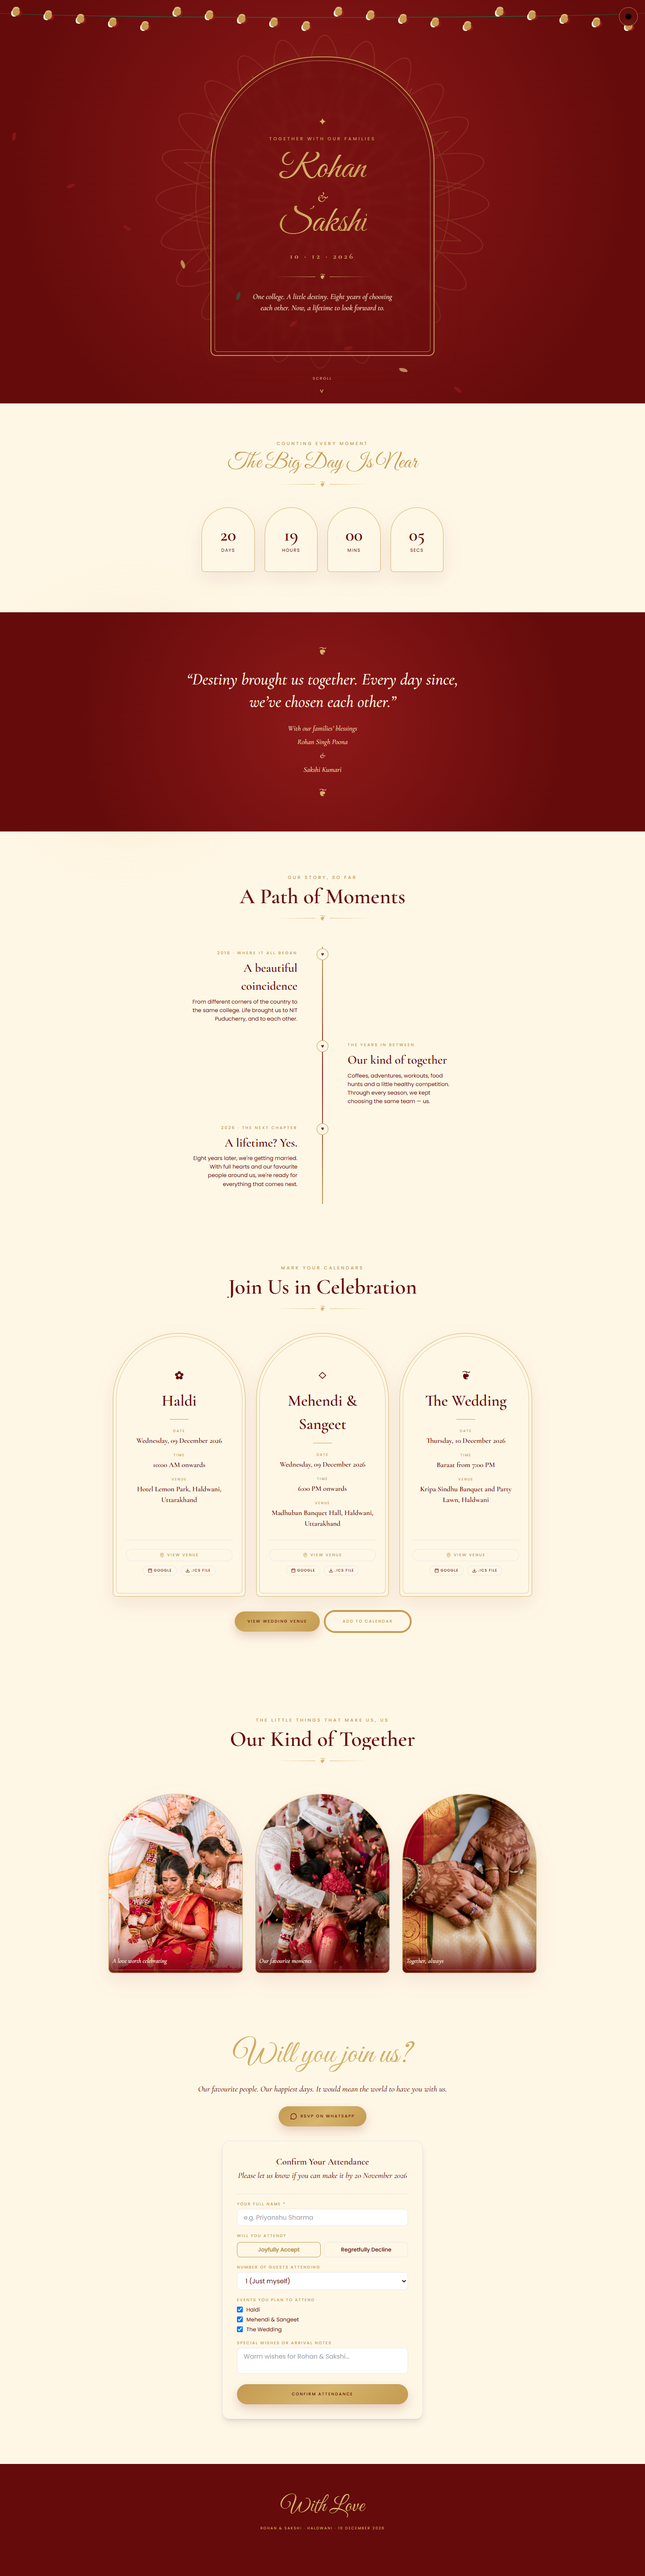
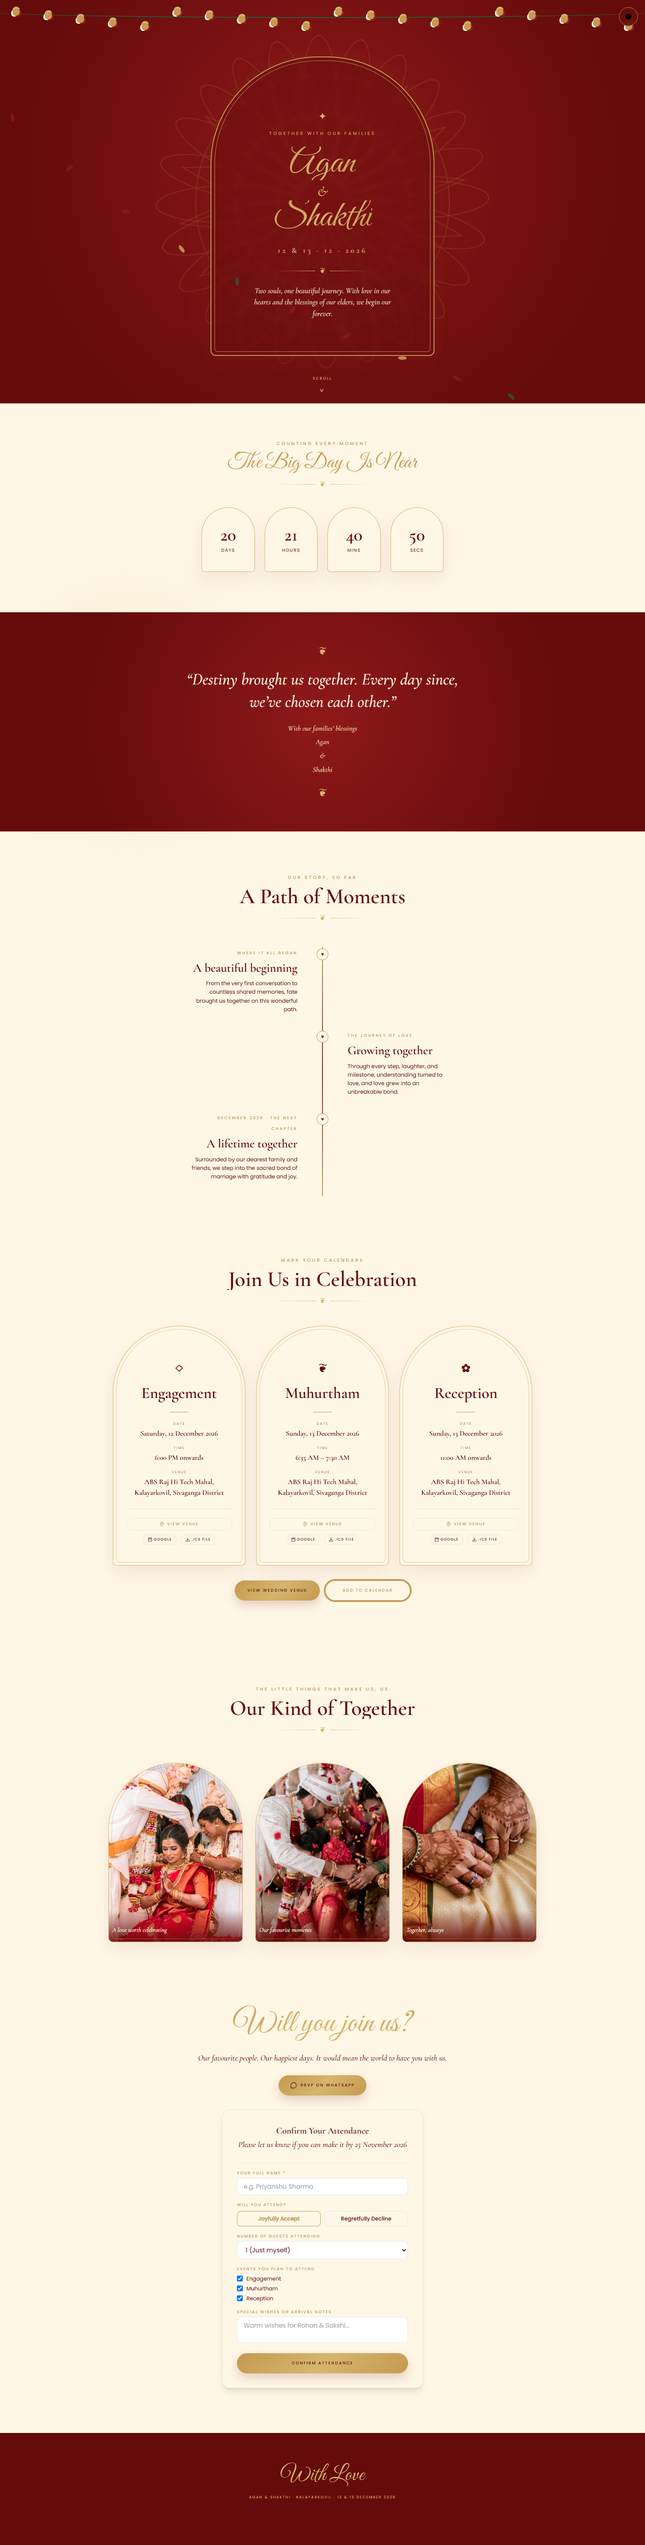
feat: update wedding details for Agan & Shakthi at ABS Raj Hi Tech Mahal, Kalayarkovil

diff --git a/src/content/invitation.ts b/src/content/invitation.ts
@@ -51,7 +51,7 @@ export interface InvitationContent {
     scrollHintText: string;
   };
   countdown: {
-    targetDateISO: string; // 2026-12-10T19:00:00+05:30
+    targetDateISO: string; // 2026-12-13T06:35:00+05:30
     eyebrow: string;
     title: string;
     labels: {
@@ -90,7 +90,7 @@ export interface InvitationContent {
   rsvp: {
     title: string;
     copy: string;
-    whatsAppNumber: string; // e.g. 919679545488
+    whatsAppNumber: string;
     whatsAppMessageTemplate: string;
     whatsAppButtonText: string;
     formTitle: string;
@@ -104,13 +104,13 @@ export interface InvitationContent {
 
 export const invitationContent: InvitationContent = {
   meta: {
-    title: "Rohan & Sakshi · 10 December 2026",
-    description: "Celebrate Rohan and Sakshi's wedding on 10 December 2026 in Haldwani, Uttarakhand.",
+    title: "Agan & Shakthi · 12 & 13 December 2026",
+    description: "Celebrate Agan and Shakthi's wedding on 12 & 13 December 2026 at ABS Raj Hi Tech Mahal, Kalayarkovil, Sivaganga district.",
     favicon: "/assets/favicon.png",
     ogImage: "/assets/invitation-cover.jpg",
   },
   audio: {
-    // Leave empty by default; set to e.g. '/assets/shehnai-classical.mp3' to enable floating player
+    // Leave empty by default; set to e.g. '/assets/nadaswaram-wedding.mp3' to enable floating player
     src: "",
     title: "Auspicious Wedding Melody",
   },
@@ -118,19 +118,19 @@ export const invitationContent: InvitationContent = {
     image: "/assets/invitation-cover.jpg",
     openButtonText: "OPEN INVITATION",
     skipButtonText: "Skip to Invitation",
-    ariaLabel: "Open Rohan and Sakshi's invitation",
+    ariaLabel: "Open Agan and Shakthi's invitation",
   },
   hero: {
     ornament: "✦",
     eyebrow: "Together with our families",
-    groomFirstName: "Rohan",
-    brideFirstName: "Sakshi",
-    displayDate: "10 · 12 · 2026",
-    copy: "One college. A little destiny. Eight years of choosing each other. Now, a lifetime to look forward to.",
+    groomFirstName: "Agan",
+    brideFirstName: "Shakthi",
+    displayDate: "12 & 13 · 12 · 2026",
+    copy: "Two souls, one beautiful journey. With love in our hearts and the blessings of our elders, we begin our forever.",
     scrollHintText: "SCROLL",
   },
   countdown: {
-    targetDateISO: "2026-12-10T19:00:00+05:30",
+    targetDateISO: "2026-12-13T06:35:00+05:30", // Muhurtham: 13 Dec 2026, 6:35 AM IST
     eyebrow: "Counting every moment",
     title: "The Big Day Is Near",
     labels: {
@@ -144,29 +144,29 @@ export const invitationContent: InvitationContent = {
   blessing: {
     quote: "“Destiny brought us together. Every day since, we’ve chosen each other.”",
     header: "With our families’ blessings",
-    groomFullName: "Rohan Singh Poona",
-    groomParents: "Smt Rekha Poona and Shri Bahadur Singh Poona",
-    brideFullName: "Sakshi Kumari",
-    brideParents: "Smt Sushama Kumari and Shri Shiv Raja",
+    groomFullName: "Agan",
+    groomParents: "Son of our beloved parents", // Pending parent names
+    brideFullName: "Shakthi",
+    brideParents: "Daughter of our beloved parents", // Pending parent names
   },
   story: {
     eyebrow: "Our story, so far",
     title: "A Path of Moments",
     milestones: [
       {
-        date: "2018 · WHERE IT ALL BEGAN",
-        title: "A beautiful coincidence",
-        note: "From different corners of the country to the same college. Life brought us to NIT Puducherry, and to each other.",
+        date: "WHERE IT ALL BEGAN",
+        title: "A beautiful beginning",
+        note: "From the very first conversation to countless shared memories, fate brought us together on this wonderful path.",
       },
       {
-        date: "THE YEARS IN BETWEEN",
-        title: "Our kind of together",
-        note: "Coffees, adventures, workouts, food hunts and a little healthy competition. Through every season, we kept choosing the same team — us.",
+        date: "THE JOURNEY OF LOVE",
+        title: "Growing together",
+        note: "Through every step, laughter, and milestone, understanding turned to love, and love grew into an unbreakable bond.",
       },
       {
-        date: "2026 · THE NEXT CHAPTER",
-        title: "A lifetime? Yes.",
-        note: "Eight years later, we're getting married. With full hearts and our favourite people around us, we're ready for everything that comes next.",
+        date: "DECEMBER 2026 · THE NEXT CHAPTER",
+        title: "A lifetime together",
+        note: "Surrounded by our dearest family and friends, we step into the sacred bond of marriage with gratitude and joy.",
       },
     ],
   },
@@ -177,37 +177,37 @@ export const invitationContent: InvitationContent = {
     addToCalendarButtonText: "Add to calendar",
     ceremonies: [
       {
-        id: "haldi",
-        symbol: "✿",
-        title: "Haldi",
-        date: "Wednesday, 09 December 2026",
-        time: "10:00 AM onwards",
-        venue: "Hotel Lemon Park, Haldwani, Uttarakhand",
-        mapQuery: "Hotel+Lemon+Park+Haldwani",
-        calendarStartDate: "2026-12-09T10:00:00+05:30",
-        calendarEndDate: "2026-12-09T14:00:00+05:30",
-      },
-      {
-        id: "mehendi",
+        id: "engagement",
         symbol: "◇",
-        title: "Mehendi & Sangeet",
-        date: "Wednesday, 09 December 2026",
+        title: "Engagement",
+        date: "Saturday, 12 December 2026",
         time: "6:00 PM onwards",
-        venue: "Madhuban Banquet Hall, Haldwani, Uttarakhand",
-        mapQuery: "Madhuban+Banquet+Hall+Haldwani",
-        calendarStartDate: "2026-12-09T18:00:00+05:30",
-        calendarEndDate: "2026-12-09T23:00:00+05:30",
+        venue: "ABS Raj Hi Tech Mahal, Kalayarkovil, Sivaganga District",
+        mapQuery: "ABS+Raj+Hi+Tech+Mahal+Kalayarkovil",
+        calendarStartDate: "2026-12-12T18:00:00+05:30",
+        calendarEndDate: "2026-12-12T21:00:00+05:30",
       },
       {
-        id: "wedding",
+        id: "muhurtham",
         symbol: "❦",
-        title: "The Wedding",
-        date: "Thursday, 10 December 2026",
-        time: "Baraat from 7:00 PM",
-        venue: "Kripa Sindhu Banquet and Party Lawn, Haldwani",
-        mapQuery: "Kripa+Sindhu+Banquet+And+Party+Lawn+Haldwani",
-        calendarStartDate: "2026-12-10T19:00:00+05:30",
-        calendarEndDate: "2026-12-11T00:00:00+05:30",
+        title: "Muhurtham",
+        date: "Sunday, 13 December 2026",
+        time: "6:35 AM – 7:30 AM",
+        venue: "ABS Raj Hi Tech Mahal, Kalayarkovil, Sivaganga District",
+        mapQuery: "ABS+Raj+Hi+Tech+Mahal+Kalayarkovil",
+        calendarStartDate: "2026-12-13T06:35:00+05:30",
+        calendarEndDate: "2026-12-13T08:00:00+05:30",
+      },
+      {
+        id: "reception",
+        symbol: "✿",
+        title: "Reception",
+        date: "Sunday, 13 December 2026",
+        time: "11:00 AM onwards",
+        venue: "ABS Raj Hi Tech Mahal, Kalayarkovil, Sivaganga District",
+        mapQuery: "ABS+Raj+Hi+Tech+Mahal+Kalayarkovil",
+        calendarStartDate: "2026-12-13T11:00:00+05:30",
+        calendarEndDate: "2026-12-13T15:00:00+05:30",
       },
     ],
   },
@@ -218,7 +218,7 @@ export const invitationContent: InvitationContent = {
       {
         image: "/assets/wedding-couple.jpg",
         label: "A love worth celebrating",
-        alt: "A bride and groom during a traditional Indian wedding ceremony",
+        alt: "A bride and groom during a traditional wedding ceremony",
       },
       {
         image: "/assets/flower-ceremony.jpg",
@@ -235,14 +235,14 @@ export const invitationContent: InvitationContent = {
   rsvp: {
     title: "Will you join us?",
     copy: "Our favourite people. Our happiest days. It would mean the world to have you with us.",
-    whatsAppNumber: "919679545488",
-    whatsAppMessageTemplate: "Hi Rohan! I'd like to RSVP for your wedding.\nName: \nNumber of guests: \nEvents I can attend: \nArrival plans: ",
+    whatsAppNumber: "919679545488", // Update with Agan / Shakthi's WhatsApp number when ready
+    whatsAppMessageTemplate: "Hi Agan & Shakthi! I'd like to RSVP for your wedding.\nName: \nNumber of guests: \nEvents I can attend: \nArrival plans: ",
     whatsAppButtonText: "RSVP on WhatsApp",
     formTitle: "Confirm Your Attendance",
-    formSubtitle: "Please let us know if you can make it by 20 November 2026",
+    formSubtitle: "Please let us know if you can make it by 25 November 2026",
   },
   footer: {
     signOff: "With Love",
-    metaLine: "ROHAN & SAKSHI · HALDWANI · 10 DECEMBER 2026",
+    metaLine: "AGAN & SHAKTHI · KALAYARKOVIL · 12 & 13 DECEMBER 2026",
   },
 };

diff --git a/src/components/sections/RsvpSection.tsx b/src/components/sections/RsvpSection.tsx
@@ -5,12 +5,13 @@ import { Reveal } from '../primitives/Reveal';
 import { CheckCircle2, MessageCircle } from 'lucide-react';
 
 export const RsvpSection: React.FC = () => {
-  const { rsvp } = invitationContent;
+  const { rsvp, events, hero } = invitationContent;
+  const ceremonyTitles = events.ceremonies.map((c) => c.title);
 
   const [name, setName] = useState('');
   const [attending, setAttending] = useState<'yes' | 'no'>('yes');
   const [guests, setGuests] = useState('1');
-  const [selectedEvents, setSelectedEvents] = useState<string[]>(['Haldi', 'Mehendi & Sangeet', 'The Wedding']);
+  const [selectedEvents, setSelectedEvents] = useState<string[]>(ceremonyTitles);
   const [notes, setNotes] = useState('');
   const [submitted, setSubmitted] = useState(false);
   const [errors, setErrors] = useState<{ name?: string }>({});
@@ -39,7 +40,7 @@ export const RsvpSection: React.FC = () => {
   };
 
   const getCustomWhatsAppUrl = () => {
-    const text = `Hi Rohan! I'd like to RSVP for your wedding.\nName: ${name || '[Your Name]'}\nAttending: ${attending === 'yes' ? 'Joyfully Accept' : 'Regretfully Decline'}\nNumber of guests: ${guests}\nEvents I can attend: ${selectedEvents.join(', ')}\nNotes: ${notes || 'None'}`;
+    const text = `Hi ${hero.groomFirstName} & ${hero.brideFirstName}! I'd like to RSVP for your wedding.\nName: ${name || '[Your Name]'}\nAttending: ${attending === 'yes' ? 'Joyfully Accept' : 'Regretfully Decline'}\nNumber of guests: ${guests}\nEvents I can attend: ${selectedEvents.join(', ')}\nNotes: ${notes || 'None'}`;
     return `https://wa.me/${rsvp.whatsAppNumber}?text=${encodeURIComponent(text)}`;
   };
 
@@ -168,7 +169,7 @@ export const RsvpSection: React.FC = () => {
                       Events You Plan to Attend
                     </label>
                     <div className="space-y-1.5 text-xs text-ink">
-                      {['Haldi', 'Mehendi & Sangeet', 'The Wedding'].map((evt) => (
+                      {ceremonyTitles.map((evt) => (
                         <label key={evt} className="flex items-center gap-2 cursor-pointer">
                           <input
                             type="checkbox"

diff --git a/index.html b/index.html
@@ -4,15 +4,15 @@
     <meta charset="UTF-8" />
     <link rel="icon" type="image/png" href="/assets/favicon.png" />
     <meta name="viewport" content="width=device-width, initial-scale=1.0" />
-    <title>Rohan &amp; Sakshi · 10 December 2026</title>
+    <title>Agan &amp; Shakthi · 12 &amp; 13 December 2026</title>
     <meta
       name="description"
-      content="Celebrate Rohan and Sakshi's wedding on 10 December 2026 in Haldwani, Uttarakhand."
+      content="Celebrate Agan and Shakthi's wedding on 12 & 13 December 2026 at ABS Raj Hi Tech Mahal, Kalayarkovil, Sivaganga district."
     />
-    <meta property="og:title" content="Rohan &amp; Sakshi · 10 December 2026" />
+    <meta property="og:title" content="Agan &amp; Shakthi · 12 &amp; 13 December 2026" />
     <meta
       property="og:description"
-      content="Celebrate Rohan and Sakshi's wedding on 10 December 2026 in Haldwani, Uttarakhand."
+      content="Celebrate Agan and Shakthi's wedding on 12 & 13 December 2026 at ABS Raj Hi Tech Mahal, Kalayarkovil, Sivaganga district."
     />
     <meta property="og:image" content="/assets/invitation-cover.jpg" />
     <meta property="og:type" content="website" />

diff --git a/src/components/sections/EventsSection.tsx b/src/components/sections/EventsSection.tsx
@@ -11,7 +11,10 @@ export const EventsSection: React.FC = () => {
   const { events, hero } = invitationContent;
   const coupleName = `${hero.groomFirstName} & ${hero.brideFirstName}`;
 
-  const mainWeddingCeremony = events.ceremonies.find((c) => c.id === 'wedding') || events.ceremonies[2];
+  const mainWeddingCeremony =
+    events.ceremonies.find((c) => c.id === 'muhurtham' || c.id === 'wedding') ||
+    events.ceremonies[1] ||
+    events.ceremonies[0];
 
   const handleDownloadICS = (e: React.MouseEvent, ceremony: Ceremony) => {
     e.preventDefault();
